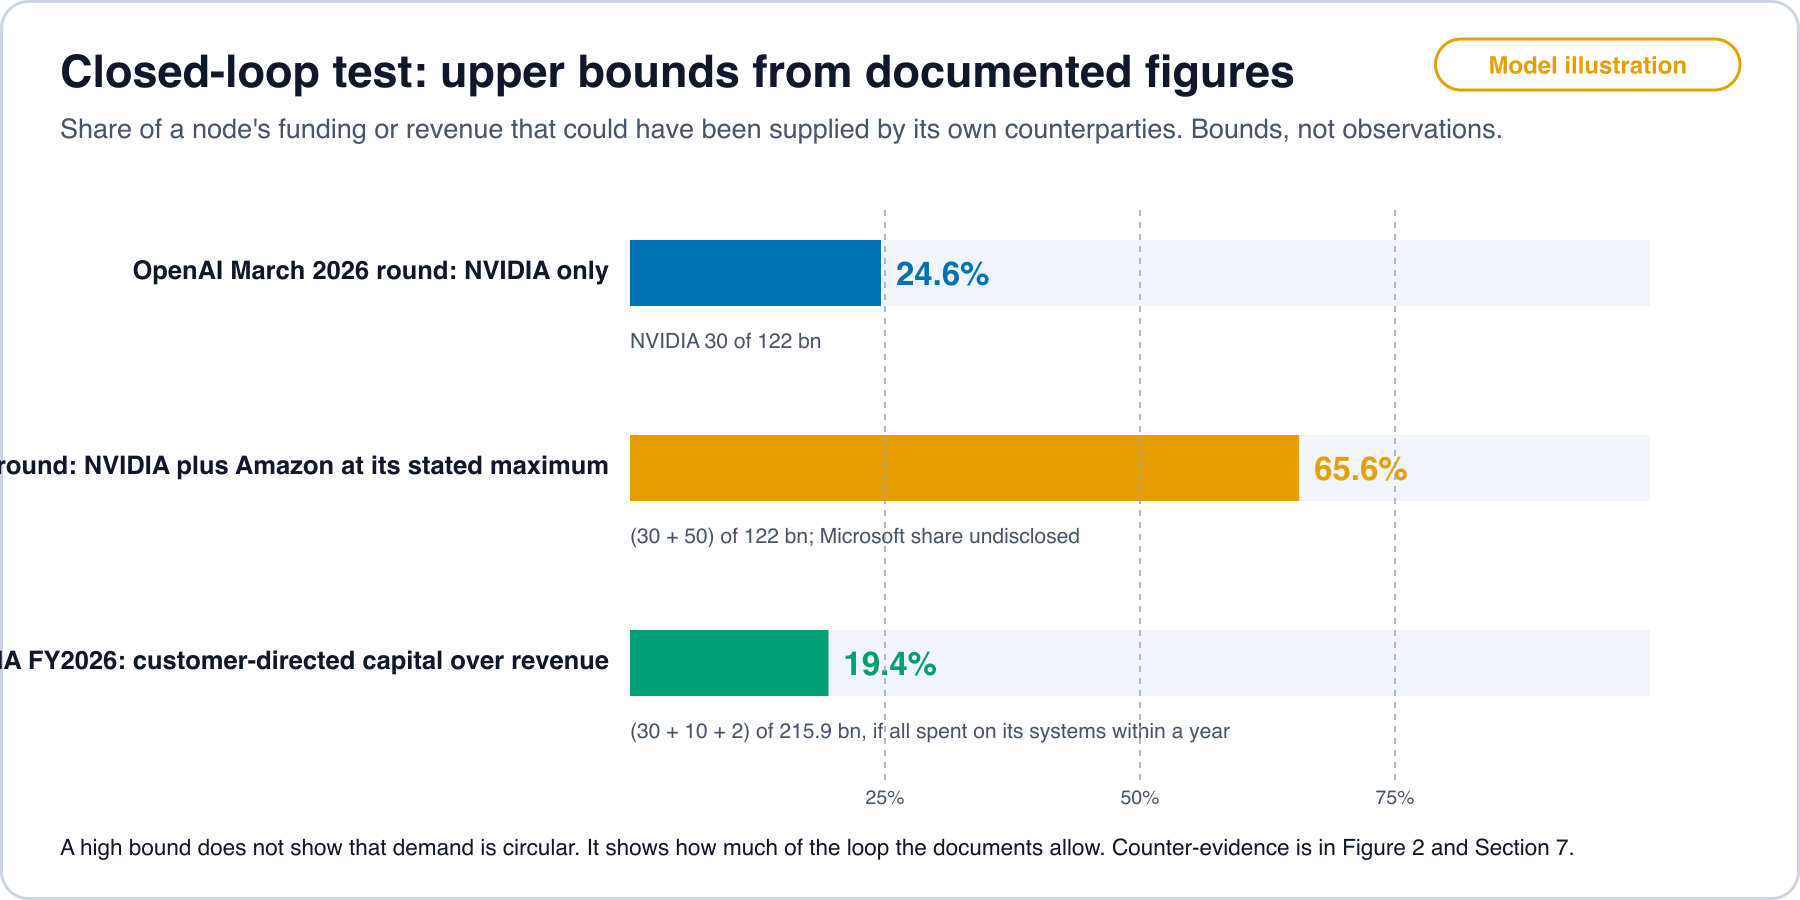
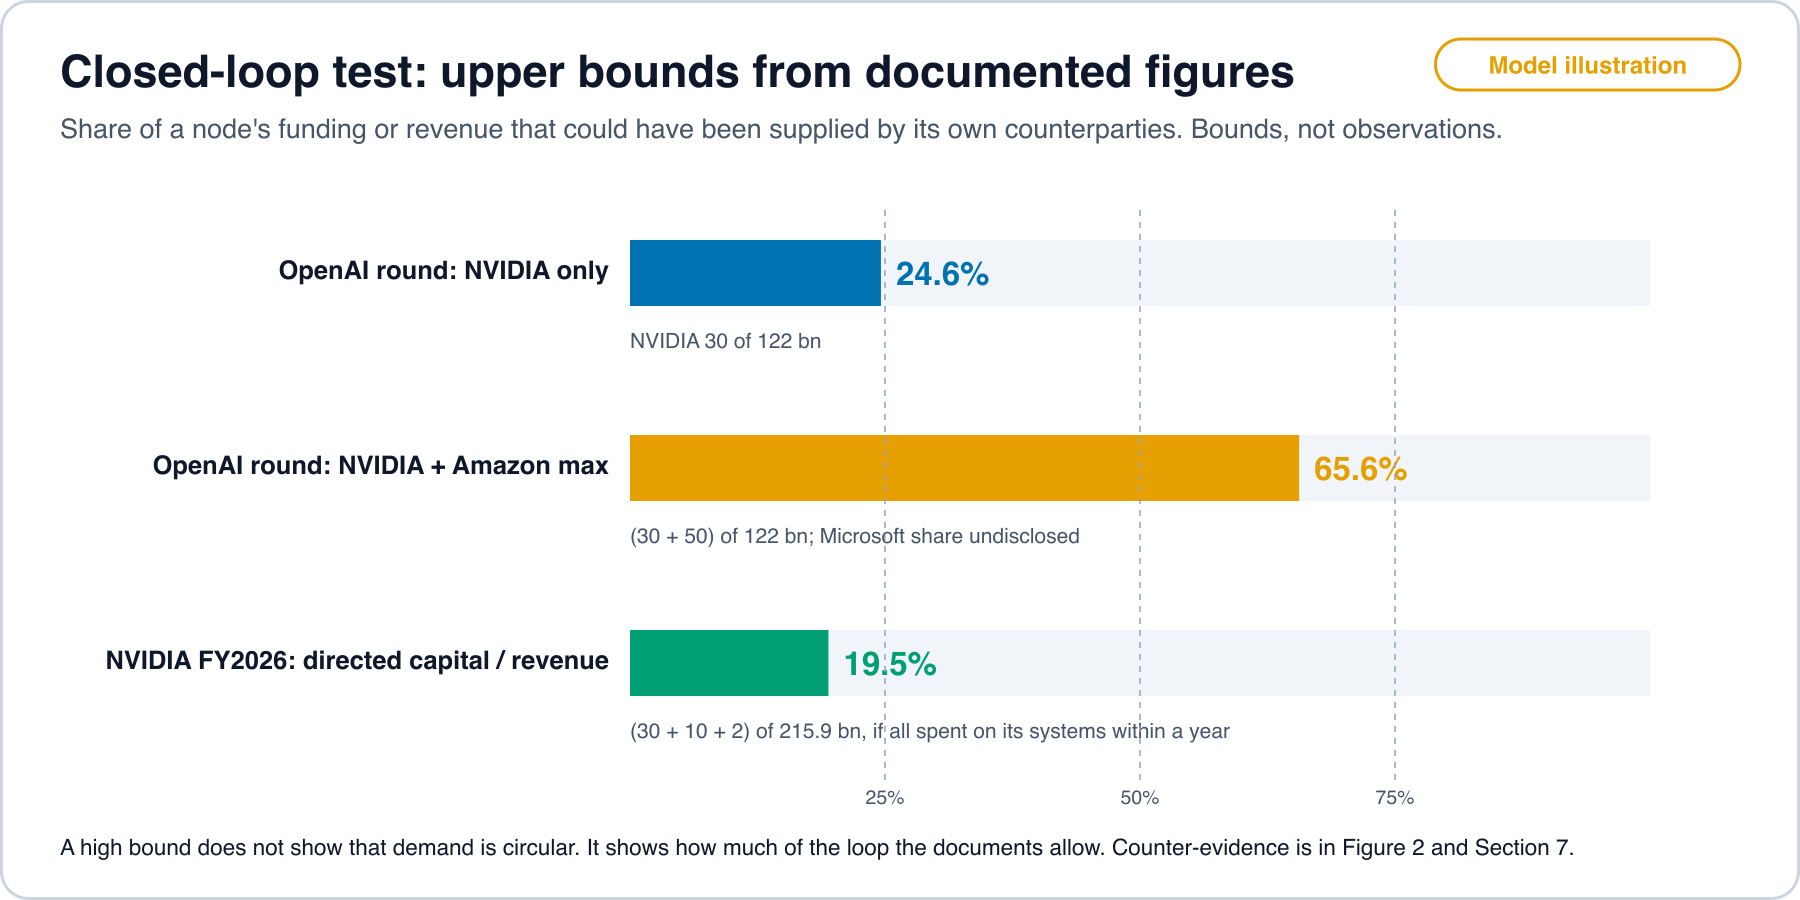
latency: fix overflow and clipping across figures

Changed region(s): [[0.0, 0.4978, 0.3422, 0.5289], [0.0, 0.7156, 0.28, 0.7467], [0.0622, 0.28, 0.2178, 0.3111]]

diff --git a/scripts/figures/latency_figures.py b/scripts/figures/latency_figures.py
@@ -53,7 +53,7 @@ def flow():
 # ---------- 2 capex vs OCF small multiples
 def capex():
     R = rd('capex_ocf.csv'); tick = ['MSFT', 'AMZN', 'GOOGL', 'META', 'ORCL', 'CRWV']
-    names = {'MSFT': 'Microsoft (FY ends June)', 'AMZN': 'Amazon', 'GOOGL': 'Alphabet', 'META': 'Meta', 'ORCL': 'Oracle (FY ends May)', 'CRWV': 'CoreWeave'}
+    names = {'MSFT': 'Microsoft (June FY)', 'AMZN': 'Amazon', 'GOOGL': 'Alphabet', 'META': 'Meta', 'ORCL': 'Oracle (May FY)', 'CRWV': 'CoreWeave'}
     s = S(1200, 760, 'Cash capital spending against cash from operations, 2019 to 2026',
           'Annual, USD billions, from SEC XBRL filings. Ratio above 1 means spending exceeded operating cash flow that year.', 'DATA')
     for i, t in enumerate(tick):
@@ -80,9 +80,9 @@ def closedloop():
     M = js('model_outputs.json')
     s = S(1200, 600, 'Closed-loop test: upper bounds from documented figures',
           'Share of a node\'s funding or revenue that could have been supplied by its own counterparties. Bounds, not observations.', 'MODEL')
-    bars = [('OpenAI March 2026 round: NVIDIA only', M['openai_round']['nvidia_only'], BLUE, 'NVIDIA 30 of 122 bn'),
-            ('OpenAI round: NVIDIA plus Amazon at its stated maximum', M['openai_round']['nvidia_plus_amazon_max'], ORANGE, '(30 + 50) of 122 bn; Microsoft share undisclosed'),
-            ('NVIDIA FY2026: customer-directed capital over revenue', M['nvidia_bound']['share'], GREEN, '(30 + 10 + 2) of 215.9 bn, if all spent on its systems within a year')]
+    bars = [('OpenAI round: NVIDIA only', M['openai_round']['nvidia_only'], BLUE, 'NVIDIA 30 of 122 bn'),
+            ('OpenAI round: NVIDIA + Amazon max', M['openai_round']['nvidia_plus_amazon_max'], ORANGE, '(30 + 50) of 122 bn; Microsoft share undisclosed'),
+            ('NVIDIA FY2026: directed capital / revenue', 42 / 215.938, GREEN, '(30 + 10 + 2) of 215.9 bn, if all spent on its systems within a year')]
     x0, w = 420, 680
     for i, (lab, v, c, note) in enumerate(bars):
         y = 160 + i * 130
@@ -116,24 +116,27 @@ def commit():
     for i, (lab, v, c, kind) in enumerate(items):
         y = 140 + i * 54; s.t(x0 - 14, y + 24, lab, 16, 600, INK, 'end'); ww = w * (math.log10(v) - lo) / (hi - lo)
         s.r(x0, y, ww, 34, c); s.t(x0 + ww + 10, y + 25, f'{v:,.1f}'.rstrip('0').rstrip('.'), 18, 800)
-    s.t(40, 576, 'Oracle expects about 13% of its obligations to be recognized within twelve months (quarterly report, Aug 2026). The OpenAI figure for Azure is a contracted purchase, not revenue to Microsoft in one year.', 13, 400, MUTED)
+    s.t(40, 566, 'Oracle expects about 13% of its obligations to be recognized within twelve months (quarterly report, Aug 2026).', 13, 400, MUTED)
+    s.t(40, 586, 'The OpenAI figure for Azure is a contracted purchase, not revenue to Microsoft in one year.', 13, 400, MUTED)
     save(s, 'commitments-vs-revenue', 'Log-scale bars. OpenAI 2025 revenue 13.1 billion dollars against contracted purchases of 250 billion dollars from Microsoft Azure and 38 billion dollars from AWS. CoreWeave revenue 5.1 billion against 60.7 billion obligations. Oracle revenue 67.4 billion against 664 billion obligations.')
 
 # ---------- 6 depreciation lives
 def deprec():
     s = S(1200, 520, 'Stated useful lives for servers and network equipment', 'Years, from annual reports. Longer lives spread cost over more years and raise reported earnings in the near term.', 'DATA')
-    x0, w = 330, 760
-    for k in range(3, 8): xx = x0 + w * (k - 3) / 4; s.l(xx, 130, xx, 420, GRID, 1); s.t(xx, 440, str(k), 14, 400, MUTED, 'middle')
-    def X(v): return x0 + w * (v - 3) / 4
+    x0, w = 250, 560
+    for k in range(1, 8): xx = x0 + w * (k - 1) / 6; s.l(xx, 130, xx, 420, GRID, 1); s.t(xx, 440, str(k), 14, 400, MUTED, 'middle')
+    def X(v): return x0 + w * (v - 1) / 6
     rows = [('CoreWeave', 5, 6, 'Jan 2023: 5 to 6', SKY), ('Amazon (subset)', 6, 5, 'Jan 2025: 6 to 5', GREEN), ('Meta', None, 5.5, 'Jan 2025: set to 5.5', PINK),
             ('Alphabet', None, 6, 'servers and network: 6', ORANGE), ('Microsoft', None, None, 'range 2 to 6', BLUE), ('Oracle', None, None, 'computer and network: 1 to 6', '#8c6d1f')]
+    RANGE = {'Microsoft': (2, 6), 'Oracle': (1, 6)}
     for i, (n, a, b, note, c) in enumerate(rows):
         y = 160 + i * 44; s.t(x0 - 14, y + 6, n, 17, 700, INK, 'end')
-        if a and b: s.l(X(a), y, X(b), y, c, 4, None, True); s.c(X(a), y, 8, 'white', c, 3)
+        if a and b: s.l(X(a) + (9 if b > a else -9), y, X(b) + (-12 if b > a else 12), y, c, 2.5, None, True); s.c(X(a), y, 8, 'white', c, 3)
         elif b: s.c(X(b), y, 9, c)
-        else: s.l(X(2.5 if False else 3), y, X(6), y, c, 8, None); 
-        s.t(X(7) + 20, y + 6, note, 14, 400, MUTED, 'start')
-    s.t(40, 490, 'Hollow circle = prior estimate; arrow points to the new one. Microsoft and Oracle bars show the stated range (clipped at 3). CoreWeave lenders size loans on the depreciable cost of GPU servers.', 14, 400, MUTED)
+        else: s.l(X(RANGE[n][0]), y, X(RANGE[n][1]), y, c, 8, None)
+        s.t(x0 + w + 30, y + 6, note, 14, 400, MUTED, 'start')
+    s.t(40, 480, 'Hollow circle = prior estimate; arrow points to the new one. Microsoft and Oracle bars show the stated range.', 14, 400, MUTED)
+    s.t(40, 502, 'Meta and Alphabet are single stated values. Lives are accounting estimates, not measured service lives.', 14, 400, MUTED)
     save(s, 'depreciation-lives', 'Dot and arrow chart of stated server lives in years. CoreWeave lengthened from 5 to 6 in 2023, Amazon shortened a subset from 6 to 5 in 2025, Meta set 5.5 in 2025, Alphabet uses 6, Microsoft states 2 to 6 and Oracle 1 to 6.')
 
 # ---------- 7 Hyperion stack
@@ -157,9 +160,12 @@ def hweff():
     for e in (11, 12): s.l(x0, Y(10**e), x0 + w, Y(10**e), GRID, 1); s.t(x0 - 10, Y(10**e) + 5, f'1e{e}', 14, 400, MUTED, 'end')
     for t in range(2016, 2026): s.t(X(t), y0 + h + 24, str(t), 14, 400, MUTED, 'middle')
     for r in H:
-        t = yr(r['release_date']); v = float(r['flops_per_watt']); s.c(X(t), Y(v), 8, BLUE); s.t(X(t), Y(v) - 14, r['hardware'].replace('NVIDIA ', '').replace(' (per GPU)', ''), 12, 500, INK, 'middle')
+        t = yr(r['release_date']); v = float(r['flops_per_watt']); s.c(X(t), Y(v), 8, BLUE); nm = r['hardware'].replace('NVIDIA ', '').replace(' (per GPU)', '')
+        if nm in ('B100', 'B200', 'GB200 NVL2'): continue
+        s.t(X(t), Y(v) + (28 if nm in ('A100 SXM4 80 GB', 'Tesla V100 SXM2 32 GB', 'Google TPU v5e') else -14), nm, 12, 500, INK, 'middle')
     a, b = F['intercept_log10_at_2016'], F['slope_log10_per_year']
     s.p(f'M{X(2016):.1f} {Y(10**a):.1f} L{X(2025):.1f} {Y(10**(a+b*9)):.1f}', VERM, 3, 'none', '8 6')
+    s.t(X(2024.2), y0 + 12, 'B100, B200, GB200 NVL2', 12, 500, INK, 'end')
     s.t(x0 + 20, y0 + 30, f"Fit: about {F['growth_per_year']:.2f}x per year (n = {F['n']})", 18, 800, VERM)
     s.t(40, 610, 'Peak specifications are not delivered energy per task. Utilization, memory traffic and software decide the delivered figure.', 14, 400, MUTED)
     save(s, 'hardware-efficiency', 'Scatter on a log axis of peak tensor operations per watt for twelve NVIDIA accelerators from 2016 to 2024 with a dashed fit of about 1.4 times per year.')
@@ -167,8 +173,8 @@ def hweff():
 # ---------- 9 accelerator-hour cost
 def hourcost():
     M = js('model_outputs.json')['accel_hour']
-    s = S(1200, 700, 'What one accelerator-hour costs, and how little of it is energy', 'Model output. Capital 33,311 USD per H100-equivalent and 880 W facility power per H100-equivalent (Epoch AI medians); electricity 0.08 USD/kWh.', 'MODEL')
-    x0, w = 240, 800; mx = 3.4
+    s = S(1200, 700, 'What one accelerator-hour costs, and how little of it is energy', 'Model output. Epoch AI medians: 33,311 USD and 880 W per H100-equivalent; electricity 0.08 USD/kWh.', 'MODEL')
+    x0, w = 240, 800; mx = 2.4
     s.t(x0, 138, 'USD per utilized accelerator-hour', 16, 700, INK)
     for k in (0, 1, 2, 3): xx = x0 + w * k / mx; s.l(xx, 150, xx, 600, GRID, 1); s.t(xx, 620, str(k), 14, 400, MUTED, 'middle')
     rows = [(l, u) for l in (5, 6) for u in (0.4, 0.6, 0.8)]
@@ -208,11 +214,11 @@ def openlag():
         s.c(X(ta), y, 9, VERM)
         if r['first_open_date']:
             to = yr(r['first_open_date']); s.l(X(ta), y, X(to), y, '#94a3b8', 3); s.c(X(to), y, 9, BLUE, 'white', 2)
-            s.t((X(ta) + X(to)) / 2, y - 12, f'{round((to-ta)*12)} months', 15, 800, INK, 'middle')
-        else: s.t(X(ta) + 16, y + 6, 'no open-weight model at this level in the data', 14, 400, MUTED)
-    s.c(260, 535, 8, VERM); s.t(276, 540, 'first notable model, any access', 14); s.c(560, 535, 8, BLUE); s.t(576, 540, 'first open-weight model', 14)
-    s.t(1160, 540, 'Scale of training, not capability. Open models reach many benchmarks with less compute.', 13, 400, MUTED, 'end')
-    save(s, 'open-compute-lag', 'Dumbbell chart for training-compute thresholds from 1e22 to 1e26 FLOP: the first notable model at any access type and the first open-weight model, with the gap in months shrinking from about 31 months at 1e23 to 15 months at 1e25 and no open-weight model yet at 1e26 in the data.')
+            s.t((X(ta) + X(to)) / 2, y - 12, (lambda m: f'{m} month' + ('' if m == 1 else 's'))(round((to-ta)*12)), 15, 800, INK, 'middle')
+        else: s.t(X(ta) + 16, y + 6, 'no open-weight model yet', 14, 400, MUTED)
+    s.c(60, 535, 8, VERM); s.t(76, 540, 'first notable model, any access', 14); s.c(340, 535, 8, BLUE); s.t(356, 540, 'first open-weight model', 14)
+    s.t(40, 566, 'Scale of training, not capability. Open models reach many benchmarks with less compute.', 13, 400, MUTED)
+    save(s, 'open-compute-lag', 'Dumbbell chart for training-compute thresholds from 1e22 to 1e26 FLOP: the first notable model at any access type and the first open-weight model, with the gap in months shrinking from about 30 months at 1e23 to 15 months at 1e25 and no open-weight model yet at 1e26 in the data.')
 
 # ---------- 12 research to product lag
 def prodlag():
@@ -225,11 +231,11 @@ def prodlag():
         y = 170 + i * 80; ta, tb = yr(a), yr(b); s.t(x0 - 14, y + 6, lab, 16, 600, INK, 'end'); s.l(X(ta), y, X(tb), y, '#94a3b8', 4)
         s.c(X(ta), y, 9, BLUE); s.c(X(tb), y, 9, VERM); s.t((X(ta) + X(tb)) / 2, y - 14, f'{round((tb-ta)*12)} months', 17, 800, INK, 'middle')
     s.c(500, 438, 8, BLUE); s.t(516, 443, 'public paper', 14); s.c(660, 438, 8, VERM); s.t(676, 443, 'shipped', 14)
-    save(s, 'research-to-product-lag', 'Three dumbbells showing months between a method paper and a shipped system: FlashAttention to PyTorch 2.0 about 10 months, Mamba to Jamba about 3 months, speculative decoding to Google products about 25 months.')
+    save(s, 'research-to-product-lag', 'Three dumbbells showing months between a method paper and a shipped system: FlashAttention to PyTorch 2.0 about 10 months, Mamba to Jamba about 3 months, speculative decoding to Google products about 24 months.')
 
 # ---------- 13 alternative hardware ratios
 def althw():
-    s = S(1200, 640, 'Alternative designs against a baseline in the same paper', 'Ratio = baseline cost divided by alternative cost, as each paper reports it. Different tasks, so bars are not comparable across rows.', 'DATA')
+    s = S(1200, 660, 'Alternative designs against a baseline in the same paper', 'Ratio = baseline cost divided by alternative cost, as each paper reports it. Different tasks, so bars are not comparable across rows.', 'DATA')
     items = [('BitNet b1.58 2B on CPU, energy per token (estimated by an arithmetic model)', 6.6, 23.2, 'est'), ('BitNet b1.58 2B, memory (non-embedding vs full-model peers)', 3.5, 12.0, 'meas'),
              ('FlightLLM on FPGA vs V100S and A100, energy efficiency', 4.2, 6.0, 'meas'), ('FlightLLM on FPGA vs V100S and A100, cost efficiency', 1.4, 1.8, 'meas'),
              ('MatMul-free LLM on Loihi 2 vs edge GPU, energy (preliminary)', 2.0, 2.0, 'prelim')]
@@ -242,8 +248,9 @@ def althw():
         if hi > lo: s.r(x0 + w * lo / mx, y + 8, w * (hi - lo) / mx, 16, col[k], 'none', 0, 2, .45)
         s.t(x0 + w * hi / mx + 10, y + 24, (f'{lo:g} to {hi:g}x' if hi > lo else f'{lo:g}x'), 16, 800)
     s.r(60, 540, 18, 18, BLUE); s.t(86, 555, 'measured in the paper', 14); s.r(300, 540, 18, 18, ORANGE); s.t(326, 555, 'estimated, not metered', 14); s.r(560, 540, 18, 18, PINK); s.t(586, 555, 'preliminary', 14)
-    s.t(40, 590, 'IBM analog in-memory chip: 12.4 TOPS/W chip-sustained on small networks, no matched baseline given. Photonic processor (Nature, 2025): near-electronic precision on ResNet and BERT, no joules in the text read.', 13, 400, MUTED)
-    s.t(40, 612, 'Huawei CloudMatrix-Infer on Ascend NPUs: 4.45 tokens/s per TFLOPS in prefill, above published H100 and H800 results; power was not reported, so no joule ratio is drawn.', 13, 400, MUTED)
+    s.t(40, 584, 'IBM analog in-memory chip: 12.4 TOPS/W chip-sustained on small networks, no matched baseline given.', 13, 400, MUTED)
+    s.t(40, 604, 'Photonic processor (Nature, 2025): near-electronic precision on ResNet and BERT, no joules in the text read.', 13, 400, MUTED)
+    s.t(40, 624, 'Huawei CloudMatrix-Infer on Ascend NPUs: 4.45 tokens/s per TFLOPS in prefill; power not reported, so no joule ratio is drawn.', 13, 400, MUTED)
     save(s, 'alternative-hardware-ratios', 'Horizontal bars of ratios against a baseline: BitNet on CPU energy 6.6 to 22.7 times lower by estimate, memory 5 to 12 times lower, FlightLLM FPGA 4.2 to 6.0 times energy efficiency and 1.4 to 1.8 times cost efficiency versus two GPUs, Loihi 2 about 2 times less energy preliminary.')
 
 # ---------- maps
@@ -296,7 +303,7 @@ def mapdc():
     save(s, 'map-frontier-datacenters', 'World map with red circles sized by frontier AI data-center power: United States about 11.9 gigawatts, Malaysia 1.1, China 0.7, and small sites in the United Kingdom, Finland, Indonesia, Norway, Australia, Portugal and Iceland.')
 def mapmodels():
     data = {'United States of America': 59, 'China': 35, 'South Korea': 8, 'Canada': 1, 'France': 1, 'United Kingdom': 1, 'Singapore': 1}
-    s = S(1200, 760, 'Where notable AI models came from in 2025', 'Stanford AI Index 2026, number of notable models by national affiliation of the developer. Hong Kong and Singapore (1 each) are too small to draw at this scale.', 'DATA')
+    s = S(1200, 760, 'Where notable AI models came from in 2025', 'Stanford AI Index 2026: notable models by developer nation. Hong Kong and Singapore are too small to draw.', 'DATA')
     def shade(v): return '#0072B2' if v >= 30 else ('#56B4E9' if v >= 5 else '#b7dcf3')
     fills = {k: shade(v) for k, v in data.items()}
     draw_world(s, 40, 130, 1120, fills)
@@ -374,7 +381,7 @@ def cadence():
         x = x0 + w * q / 8; s.l(x, 150, x, 380, '#94a3b8', 2); s.t(x, 404, f'Q{(q % 4) + 1}', 14, 700, MUTED, 'middle')
     for rho, c in ((0.55, BLUE), (1.2, GREEN), (1.95, VERM)):
         x = x0 + w * rho / 2; nxt = math.ceil(rho / 0.25) * 0.25; xn = x0 + w * nxt / 2; y = 200 + (rho > 1) * 60 + (rho > 1.5) * 50
-        s.c(x, y, 9, c); s.l(x, y, xn, y, c, 5, None, True); s.t(x, y - 14, 'ready', 14, 700, c, 'middle'); s.t((x + xn) / 2, y + 26, f'wait {int(round((nxt-rho)*52))} weeks', 14, 700, c, 'middle')
+        s.c(x, y, 9, c); s.l(x, y, xn - 8, y, c, 2.5, None, True); s.t(x, y - 14, 'ready', 14, 700, c, 'middle'); s.t((x + xn) / 2, y + 26, f'wait {int(round((nxt-rho)*52))} weeks', 14, 700, c, 'middle')
     s.t(80, 450, 'Funding cycle for a venture-backed firm: 3 to 5 years between rounds, so the same logic gives 1.5 to 2.5 years on average (Proposition 1).', 16, 600)
     s.t(80, 478, 'The quarter is a property of the reporting calendar, not of the engineering. Readiness phase is modeled, not observed.', 14, 400, MUTED)
     save(s, 'cadence-vs-quarter', 'Timeline of quarterly decision dates with three example readiness times and the weeks each waits until the next date; text states the average wait is half the period.')
@@ -383,16 +390,16 @@ def cadence():
 def forcing():
     A, c0, s_, r = 10, 4, 2, 0.1; T = 0.25; phi, w_ = 1.0, 0.1
     g = lambda c: (c0 - c) * (A - c - s_)
-    s = S(1200, 640, 'The forcing function: how a lower adoption cost removes the gate', 'Model illustration with the Section 7 parameters (A=10, c0=4, s=2, r=0.1, T=0.25). Gain g(c) against the two thresholds.', 'MODEL')
-    x0, y0, W, H = 130, 150, 940, 400; cmin, cmax = 0.5, 4.0; gmax = 14
+    s = S(1200, 650, 'Forcing function: lower cost removes the gate', 'Model illustration with the Section 7 parameters (A=10, c0=4, s=2, r=0.1, T=0.25). Gain g(c) against the two thresholds.', 'MODEL')
+    x0, y0, W, H = 130, 150, 940, 400; cmin, cmax = 0.5, 4.0; gmax = 26
     X = lambda c: x0 + W * (cmax - c) / (cmax - cmin); Y = lambda v: y0 + H - H * v / gmax
     s.l(x0, y0 + H, x0 + W, y0 + H, '#94a3b8', 2); s.l(x0, y0, x0, y0 + H, '#94a3b8', 2)
     pts = [(c, g(c)) for c in [cmin + i * (cmax - cmin) / 100 for i in range(101)]]
     s.p('M' + ' L'.join(f'{X(c):.1f} {Y(v):.1f}' for c, v in pts), BLUE, 4)
     for K, col, lab in ((2.0, VERM, 'before: K = 2'), (0.1, GREEN, 'after: K = 0.1')):
         G = max(r * K, (phi * K - w_) / T); s.l(x0, Y(G), x0 + W, Y(G), col, 3, '8 6'); s.t(x0 + W - 6, Y(G) - 8, f'{lab}: gate level {G:.2f}', 16, 800, col, 'end')
-    s.t(x0 + W / 2, y0 + H + 40, 'Outside cost c falls from 4 toward 0.5 (left to right)', 16, 600, INK, 'middle'); s.t(x0 + 6, y0 + 20, 'gain per period g(c)', 15, 600, INK)
-    s.t(40, 600, 'Release happens where the curve crosses the dashed level. A tool that cuts K lowers the level to r K and the crossing moves earlier (4.85 months to 0).', 14, 500)
+    s.t(x0 + W / 2, y0 + H + 34, 'Outside cost c falls from 4 toward 0.5 (left to right)', 16, 600, INK, 'middle'); s.t(x0 + 6, y0 + 20, 'gain per period g(c)', 15, 600, INK)
+    s.t(40, 612, 'Release happens where the curve crosses the dashed level. A tool that cuts K lowers the level to r K and the crossing moves earlier (4.85 months to 0).', 14, 500)
     save(s, 'forcing-function-threshold', 'A decreasing curve of gain against outside cost with two dashed horizontal levels: a high gate level before a tool and a low level after it. The curve crosses the low level earlier as cost falls.')
 
 # ---------- 21 small multiples: capital vs energy intensity
